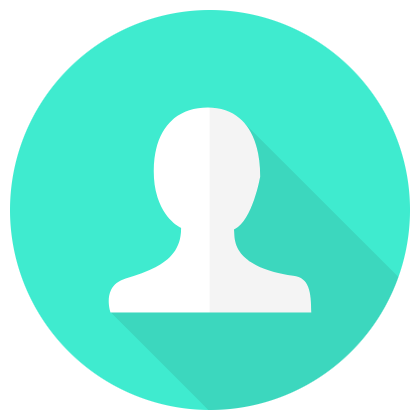
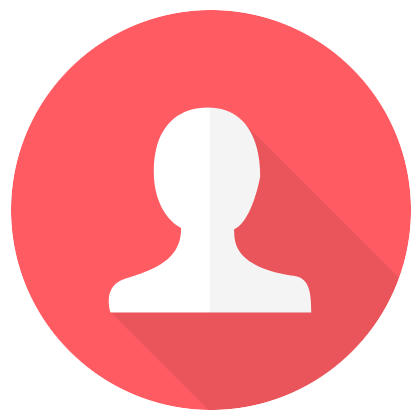
eliminando imagenes de icono de perfil

diff --git a/src/view/templateHomeProfile.js b/src/view/templateHomeProfile.js
@@ -27,7 +27,10 @@ export const postProfile = `
     </div>
   </div>`;
 
-export const imgUserDefault = './img/user.png';
+// Función de número aleatorio para ícono de perfil
+const getRandomInt = (min, max) => Math.floor(Math.random() * (max - min)) + min;
+
+export const imgUserDefault = `./img/profilePictureRandom/iconUser_${getRandomInt(1, 5)}.png`;
 
 export const postHome = `
   <div class="own-post">
